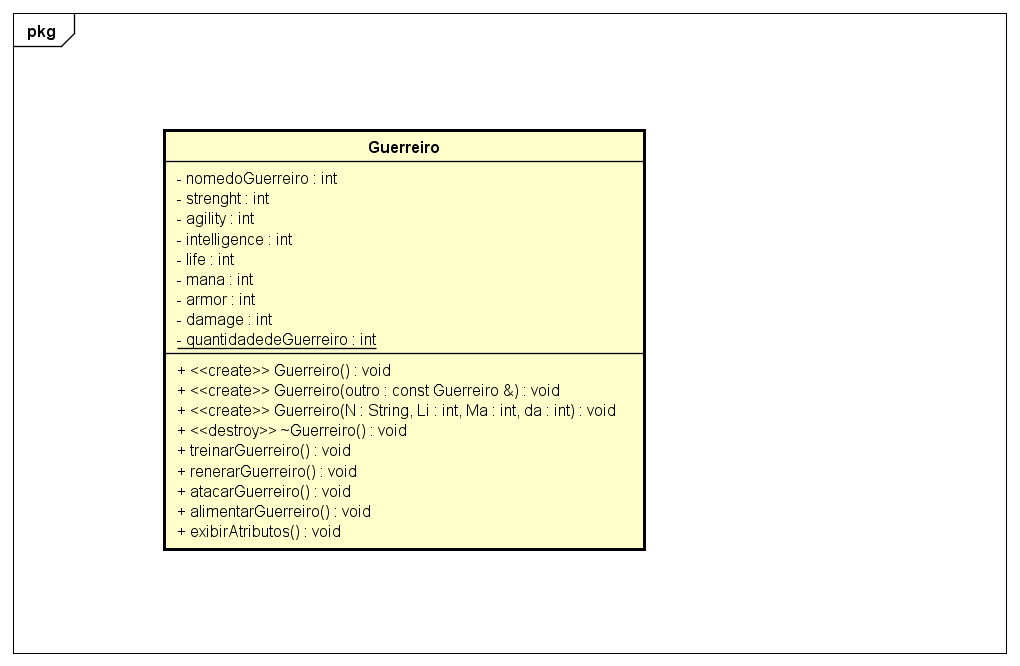
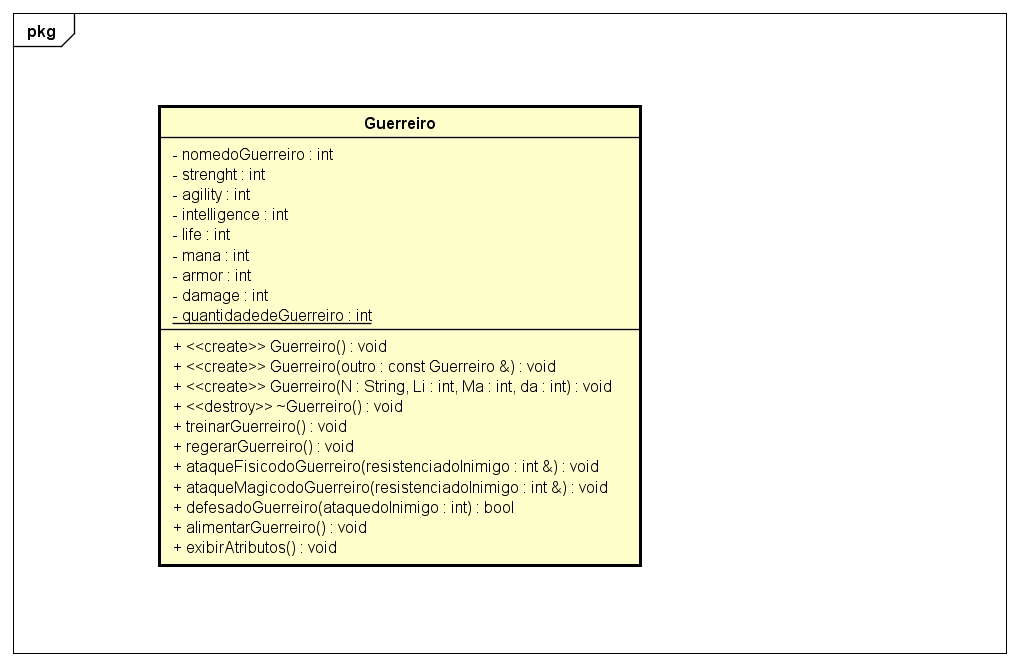
Modificação do método "atacarGuerreiro" para "ataquedoGuerreiro" recebendo um argumento. Inclusão do método "desefadoGuerreiro" e do "ataqueMagicodoGuerreiro"

Changed region(s): [[0.152, 0.1502, 0.6382, 0.8709]]

diff --git a/Guerreiro/Guerreiro.cpp b/Guerreiro/Guerreiro.cpp
@@ -10,7 +10,7 @@ int Guerreiro::quantidadedeGuerreiros = 0;
 Guerreiro::Guerreiro()
 :nomedoGuerreiro("Desconhecido"),strenght(33), agility(33),intelligence(33), life(1200), mana(600),armor(3), damage(33)
 {
-
+    
 }
 
 Guerreiro::Guerreiro( const string &N, int Li, int Ma, int Da)
@@ -34,9 +34,9 @@ Guerreiro::Guerreiro( const string &N, int Li, int Ma, int Da)
 }
 Guerreiro::Guerreiro(const Guerreiro &outro){
     this->nomedoGuerreiro = outro.nomedoGuerreiro;
-    this->strenght = outro.strength;
+    this->strenght = outro.strenght;
     this->agility = outro.agility;
-    this-intelligence = outro.intelligence;
+    this->intelligence = outro.intelligence;
     this->life = outro.life;
     this->mana = outro.armor;
     this->armor = outro.armor;
@@ -115,6 +115,7 @@ int Guerreiro::getArmorGuerreiro() const{
 int Guerreiro::getDamageGuerreiro() const{
 	return this->damage;
 }
+
 void Guerreiro::treinarGuerreiro (){
 	cout<<"\n\nTodos os dias o Guerreiro "<<this->nomedoGuerreiro<<" treina cada um de seus atributos...";
 	cout<<"\nO treino foi concluido e o Guerreiro ganhou +2 em cada atributo e gastou 30 de mana.\nDescanse agora!\n";
@@ -129,12 +130,37 @@ void Guerreiro::treinarGuerreiro (){
 void Guerreiro::regenarGuerreiro (){
 	cout<<"\n\nO Guerreiro "<<this->nomedoGuerreiro<<" descansa para gerenear nama gasta no dia, ganha +25 de mana...";
 	this->mana +=25;
-	}
-void Guerreiro::atacarGuerreiro (){
-	cout<<"\n\nNas lutas o Guerreiro "<<this->nomedoGuerreiro<<" perde 45 de mana e sua vida é compremetida em 25%...\n";
-    cout<<"O Guerreiro esta luntando...\n";
-	this->mana -=45;
-	this->life = life - life/4;
+}
+
+void Guerreiro::ataqueFisicodoGuerreiro (int &resistenciadoInimigo ){
+    cout<<"\nO Guerreiro esta atacando fisicamente...\n";
+	if ( (this->damage + this->strenght/4) > resistenciadoInimigo)
+        resistenciadoInimigo -= this->damage/3;  
+    else
+        if( (this->damage + this->strenght/4) == resistenciadoInimigo)
+            resistenciadoInimigo -= this->damage/5;
+        else
+            cout<<"\nO Inimigo defendou o ataque fisico...\n";
+    
+    if (resistenciadoInimigo < 0) resistenciadoInimigo = 0;
+}
+void Guerreiro::ataqueMagicodoGuerreiro (int &resistenciadoInimigo){
+    cout<<"\nO Guerreiro esta atacando magicamente...\n";
+    if ( (this->damage + this->intelligence/3) > resistenciadoInimigo)
+        resistenciadoInimigo -= this->damage/2;
+    else
+        if( (this->damage + this->intelligence/3) == resistenciadoInimigo)
+            resistenciadoInimigo -= this->damage/4;
+        else
+            cout<<"\nO Inimigo defendei o ataque magico...\n";
+    
+    if (resistenciadoInimigo < 0) resistenciadoInimigo = 0;
+}
+bool Guerreiro::defesadoGuerreiro( int ataquedoInimigo){
+    if (this->armor < ataquedoInimigo)
+        return false;
+    else
+        return true;
 }
 void Guerreiro::alimentarGuerreiro(){
 	cout<<"\n\nAo alimentar-se o Guerreiro ganha +13 de mana e +24 de vida";

diff --git a/Guerreiro/Guerreiro.hpp b/Guerreiro/Guerreiro.hpp
@@ -5,7 +5,6 @@ using std::string;
 
 class Guerreiro
 {
-
 public:
 	Guerreiro();
     Guerreiro(const Guerreiro &);
@@ -14,9 +13,12 @@ public:
 		
 	void treinarGuerreiro ();
 	void regenarGuerreiro ();
-	void atacarGuerreiro ();
+	void ataqueFisicodoGuerreiro (int &);
+    void ataqueMagicodoGuerreiro (int &);
+    bool defesadoGuerreiro( int );
 	void alimentarGuerreiro();
     void exibirAtributos() const;
+
     
     void setNomedoGuerreiro ( string );
 	void setStrenghtdoGuerreiro ( int );
@@ -45,6 +47,7 @@ private:
 	int mana;
 	int armor;
 	int damage;
-    static int quantidadedeGuerreiros;
+ 
+   static int quantidadedeGuerreiros;
 };
 

diff --git a/Guerreiro/main.cpp b/Guerreiro/main.cpp
@@ -7,14 +7,17 @@ using std::cin;
 
 int main(){
 	Guerreiro g("MigoTiti", 1220, 600, 45);
-    
+    int resistencia = 50;
     g.exibirAtributos();
     
-    g.treinarGuerreiro();
-    g.alimentarGuerreiro();
-    g.regenarGuerreiro(); 
-   
-    g.exibirAtributos();
+    g.ataqueFisicodoGuerreiro(resistencia);
+    cout<<"resistencia: "<<resistencia;
+    
+    g.ataqueMagicodoGuerreiro(resistencia);
+    cout<<"resistencia: "<<resistencia;
+    
+    g.ataqueMagicodoGuerreiro(resistencia);
+    cout<<"resistencia: "<<resistencia;
     
 	return 0;
 }
